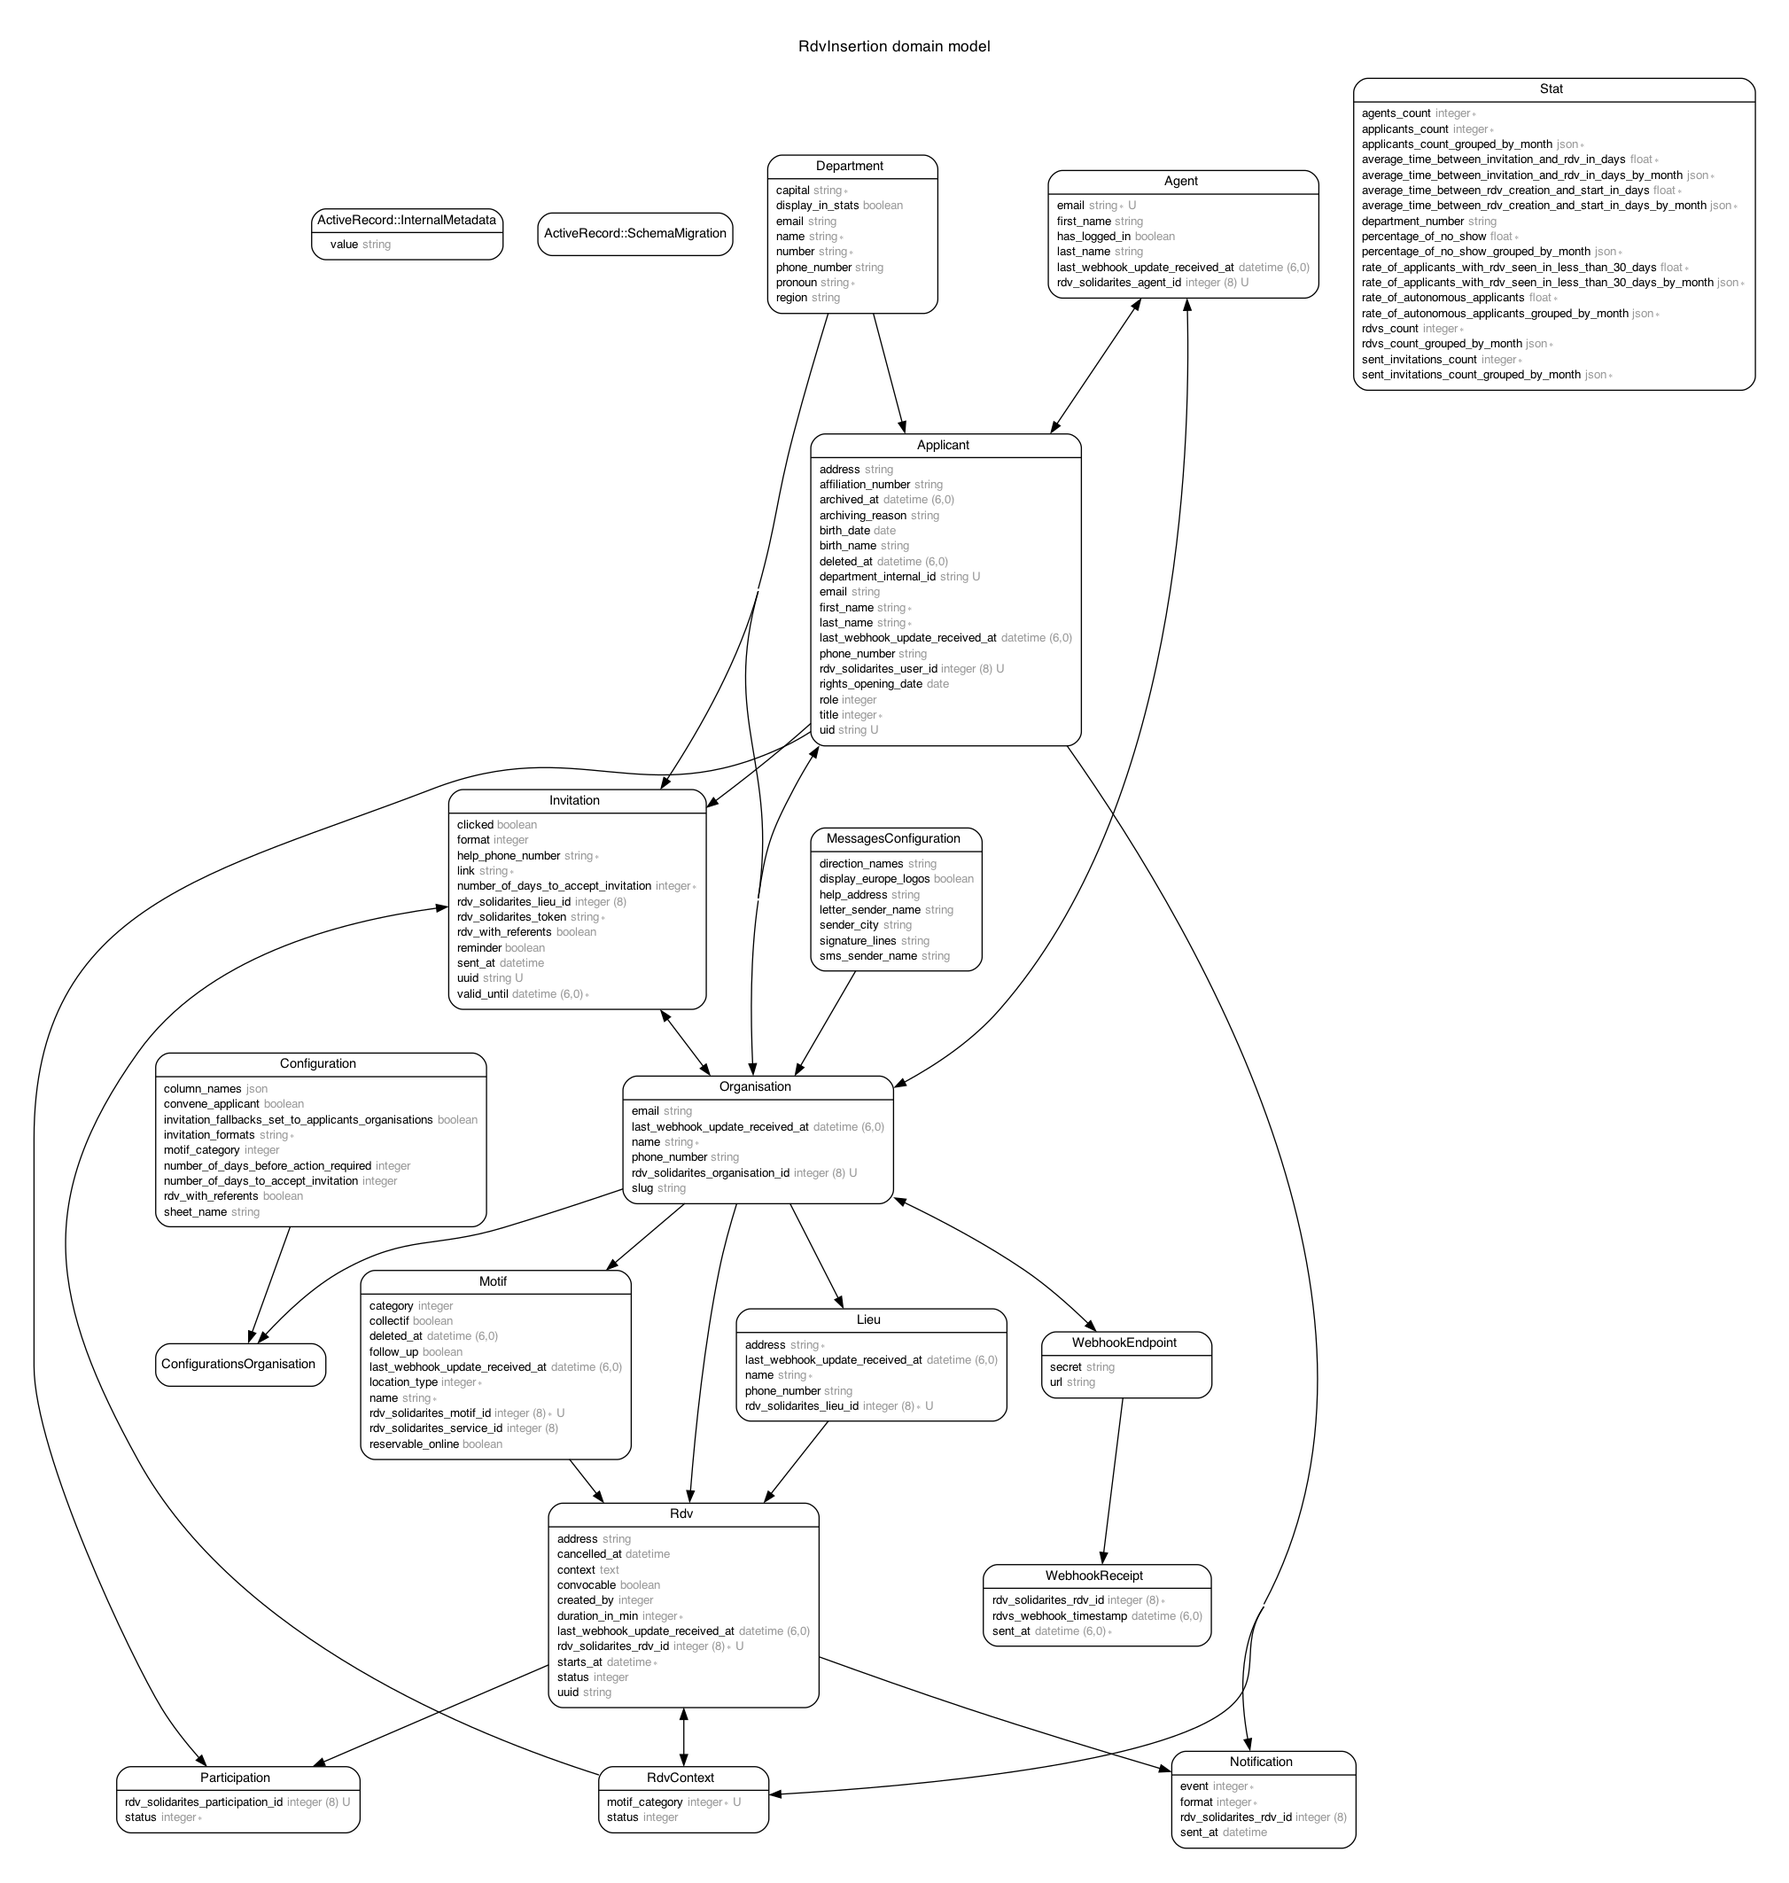
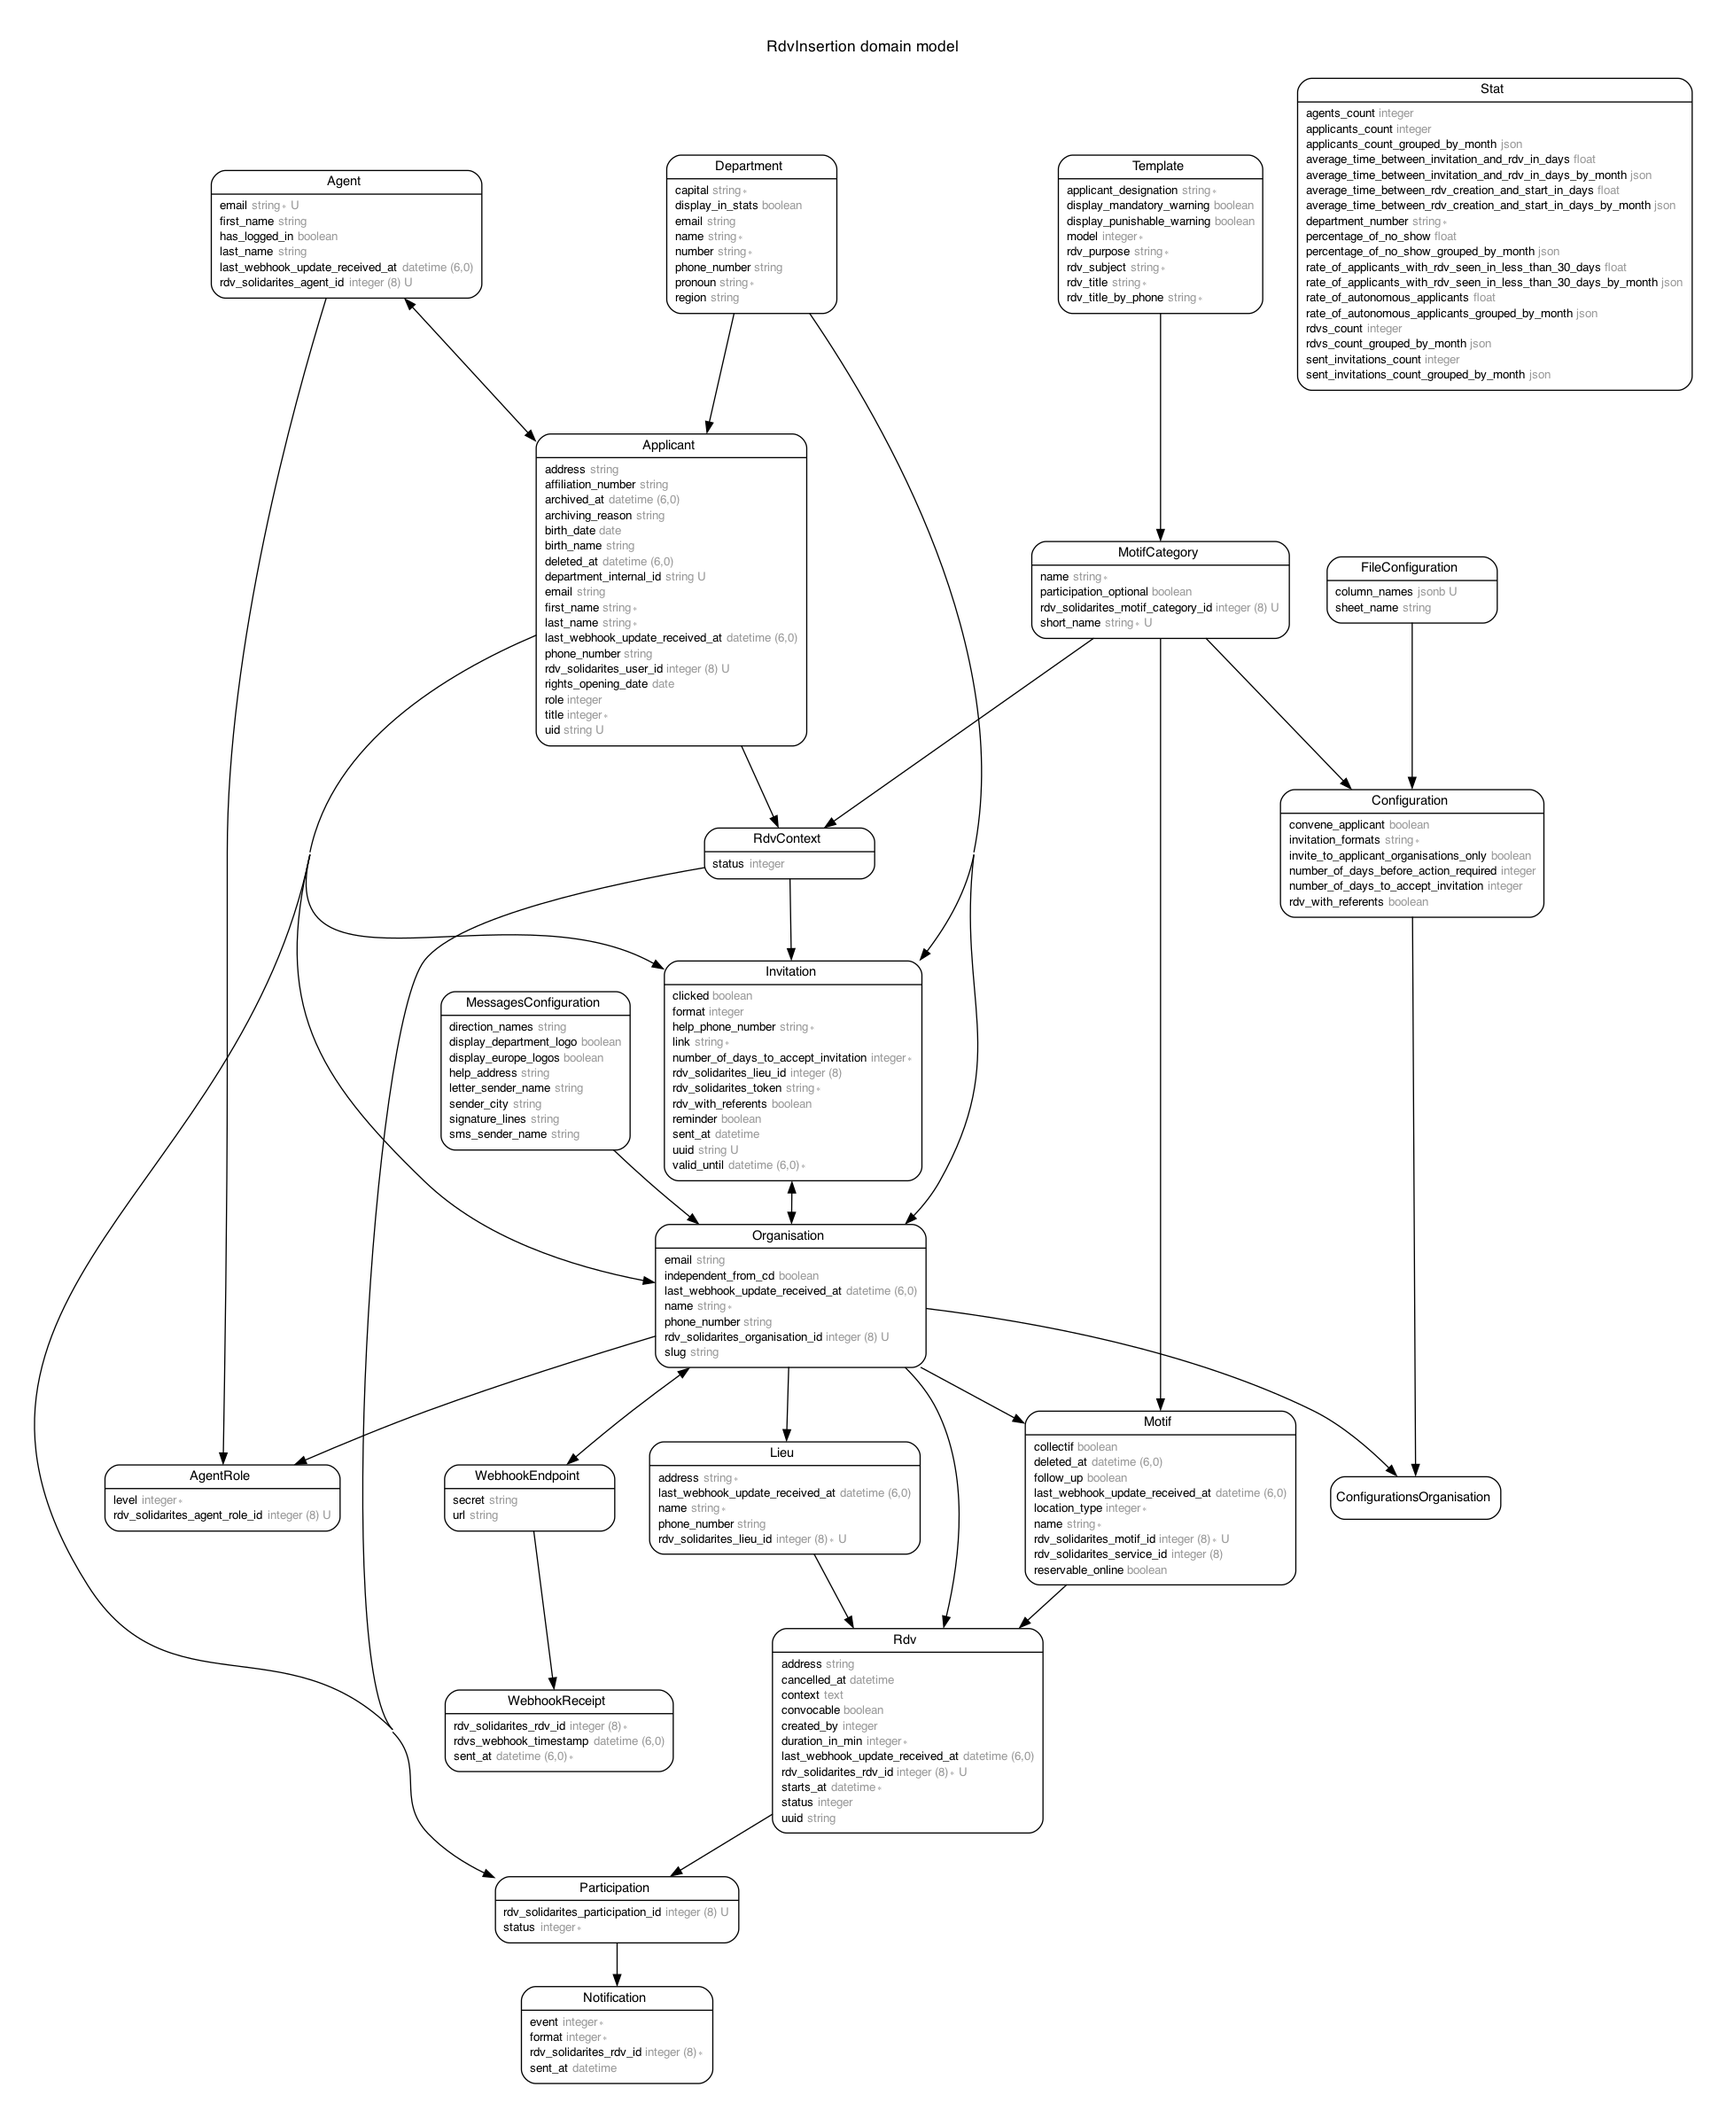
fix seed and diagram

diff --git a/db/seeds.rb b/db/seeds.rb
@@ -66,7 +66,6 @@ MotifCategory.create!(
   name: "RSA accompagnement socio-pro",
   short_name: "rsa_accompagnement_sociopro",
   template: Template.find_or_create_by!(
-    :template,
     model: "standard",
     rdv_title: "rendez-vous d'accompagnement",
     rdv_title_by_phone: "rendez-vous d'accompagnement téléphonique",
@@ -220,7 +219,7 @@ MotifCategory.create!(
 
 # --------------------------------------------------------------------------------------------------------------------
 puts "Creating configurations and responsible..."
-drome_orientation_config = Configuration.create!(
+file_config_drome = FileConfiguration.create(
   sheet_name: "ENTRETIENS PHYSIQUES",
   column_names:
     {"required"=>
@@ -234,7 +233,11 @@ drome_orientation_config = Configuration.create!(
       "role"=>"Rôle",
       "phone_number"=>"N° Téléphones",
       "title"=>"Civilité"},
-    "optional"=>{"department_internal_id"=>"ID Iodas"}},
+    "optional"=>{"department_internal_id"=>"ID Iodas"}}
+)
+
+drome_orientation_config = Configuration.create!(
+  file_configuration: file_config_drome,
   convene_applicant: false,
   invitation_formats: ["sms", "email", "postal"],
   motif_category: orientation_category,
@@ -243,20 +246,7 @@ drome_orientation_config = Configuration.create!(
 )
 
 drome_accompagnement_config = Configuration.create!(
-  sheet_name: "ENTRETIENS PHYSIQUES",
-  column_names:
-    {"required"=>
-      {"address"=>"Adresse",
-      "last_name"=>"Nom bénéficiaire",
-      "first_name"=>"Prénom bénéficiaire",
-      "email"=>"Adresses Mails",
-      "birth_date"=>"Date de Naissance",
-      "postal_code"=>"CP Ville",
-      "affiliation_number"=>"N° Allocataire",
-      "role"=>"Rôle",
-      "phone_number"=>"N° Téléphones",
-      "title"=>"Civilité"},
-    "optional"=>{"department_internal_id"=>"ID Iodas"}},
+  file_configuration: file_config_drome,
   convene_applicant: false,
   invitation_formats: ["sms", "email", "postal"],
   motif_category: accompagnement_category,
@@ -264,7 +254,7 @@ drome_accompagnement_config = Configuration.create!(
   number_of_days_before_action_required: 10
 )
 
-yonne_orientation_config = Configuration.create!(
+file_config_yonne = FileConfiguration.create(
   sheet_name: "Feuille1",
   column_names:
     {"required"=>
@@ -276,7 +266,11 @@ yonne_orientation_config = Configuration.create!(
       "birth_date"=>"Date de naissance",
       "role"=>"Rôle",
       "title"=>"Civilité"},
-    "optional"=>{"birth_name"=>"Nom JF", "department_internal_id"=>"Code individu Iodas"}},
+    "optional"=>{"birth_name"=>"Nom JF", "department_internal_id"=>"Code individu Iodas"}}
+)
+
+yonne_orientation_config = Configuration.create!(
+  file_configuration: file_config_yonne,
   convene_applicant: true,
   invitation_formats: [],
   motif_category: orientation_category,
